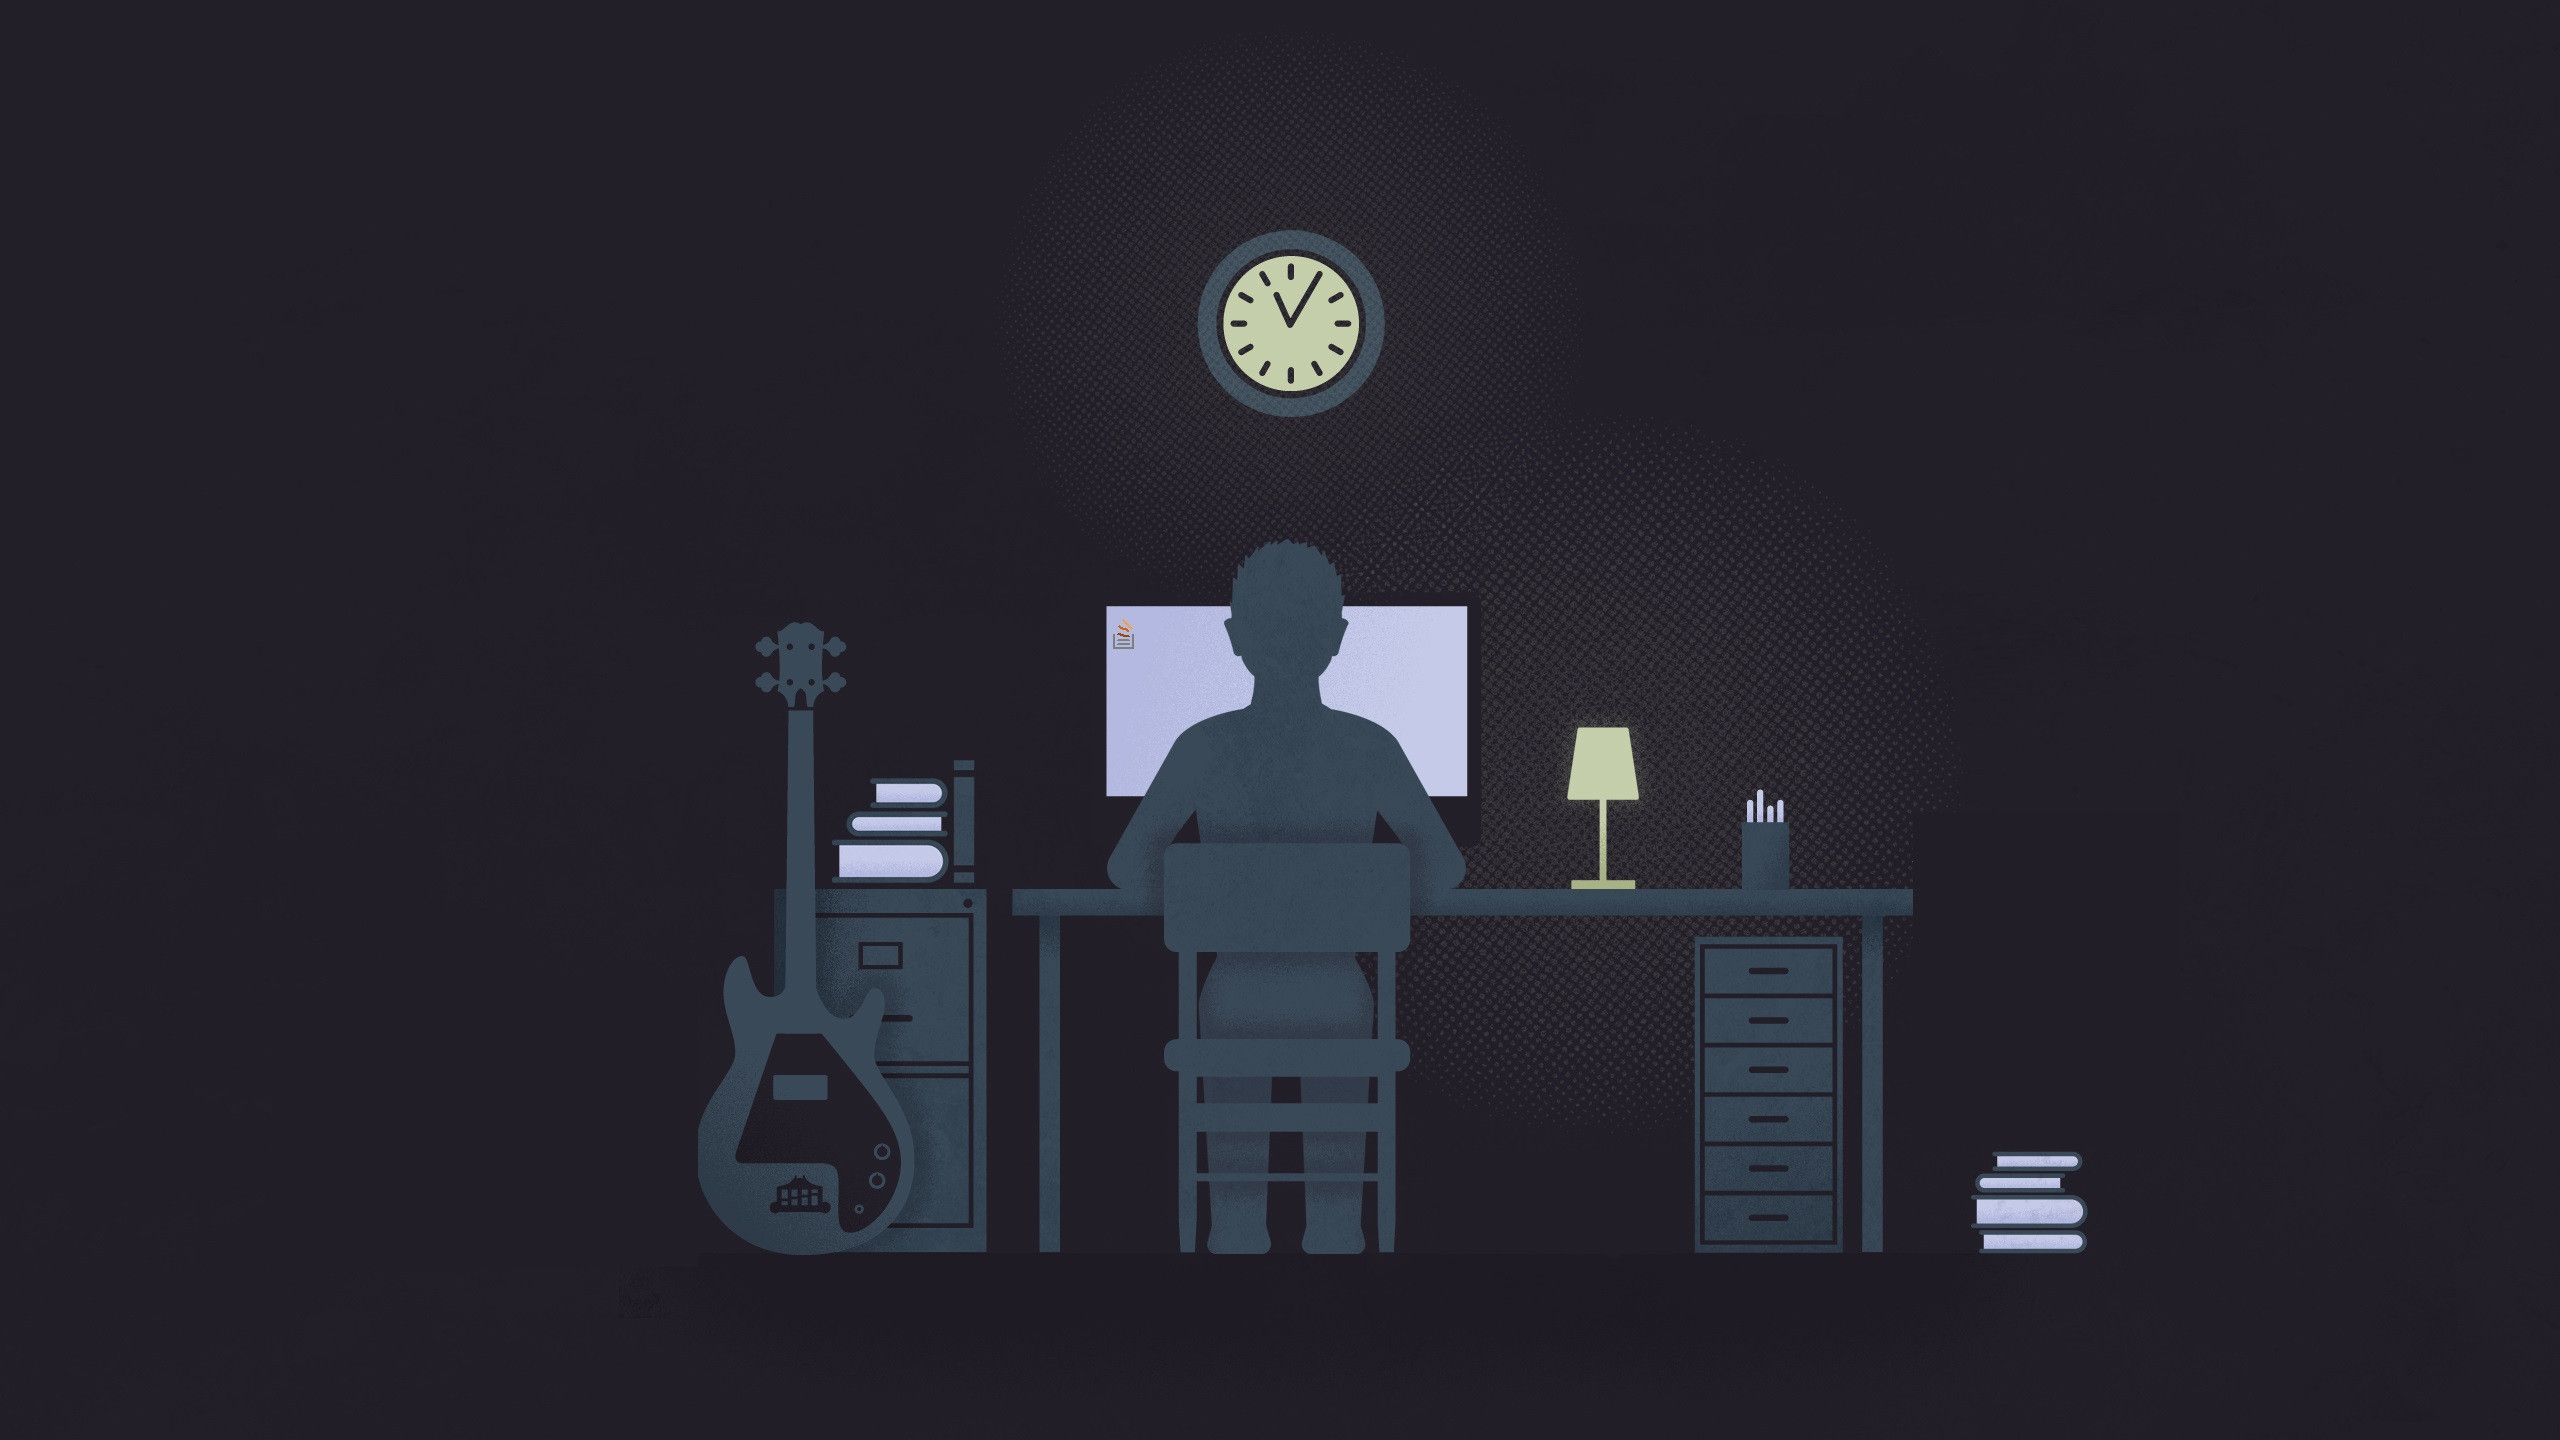
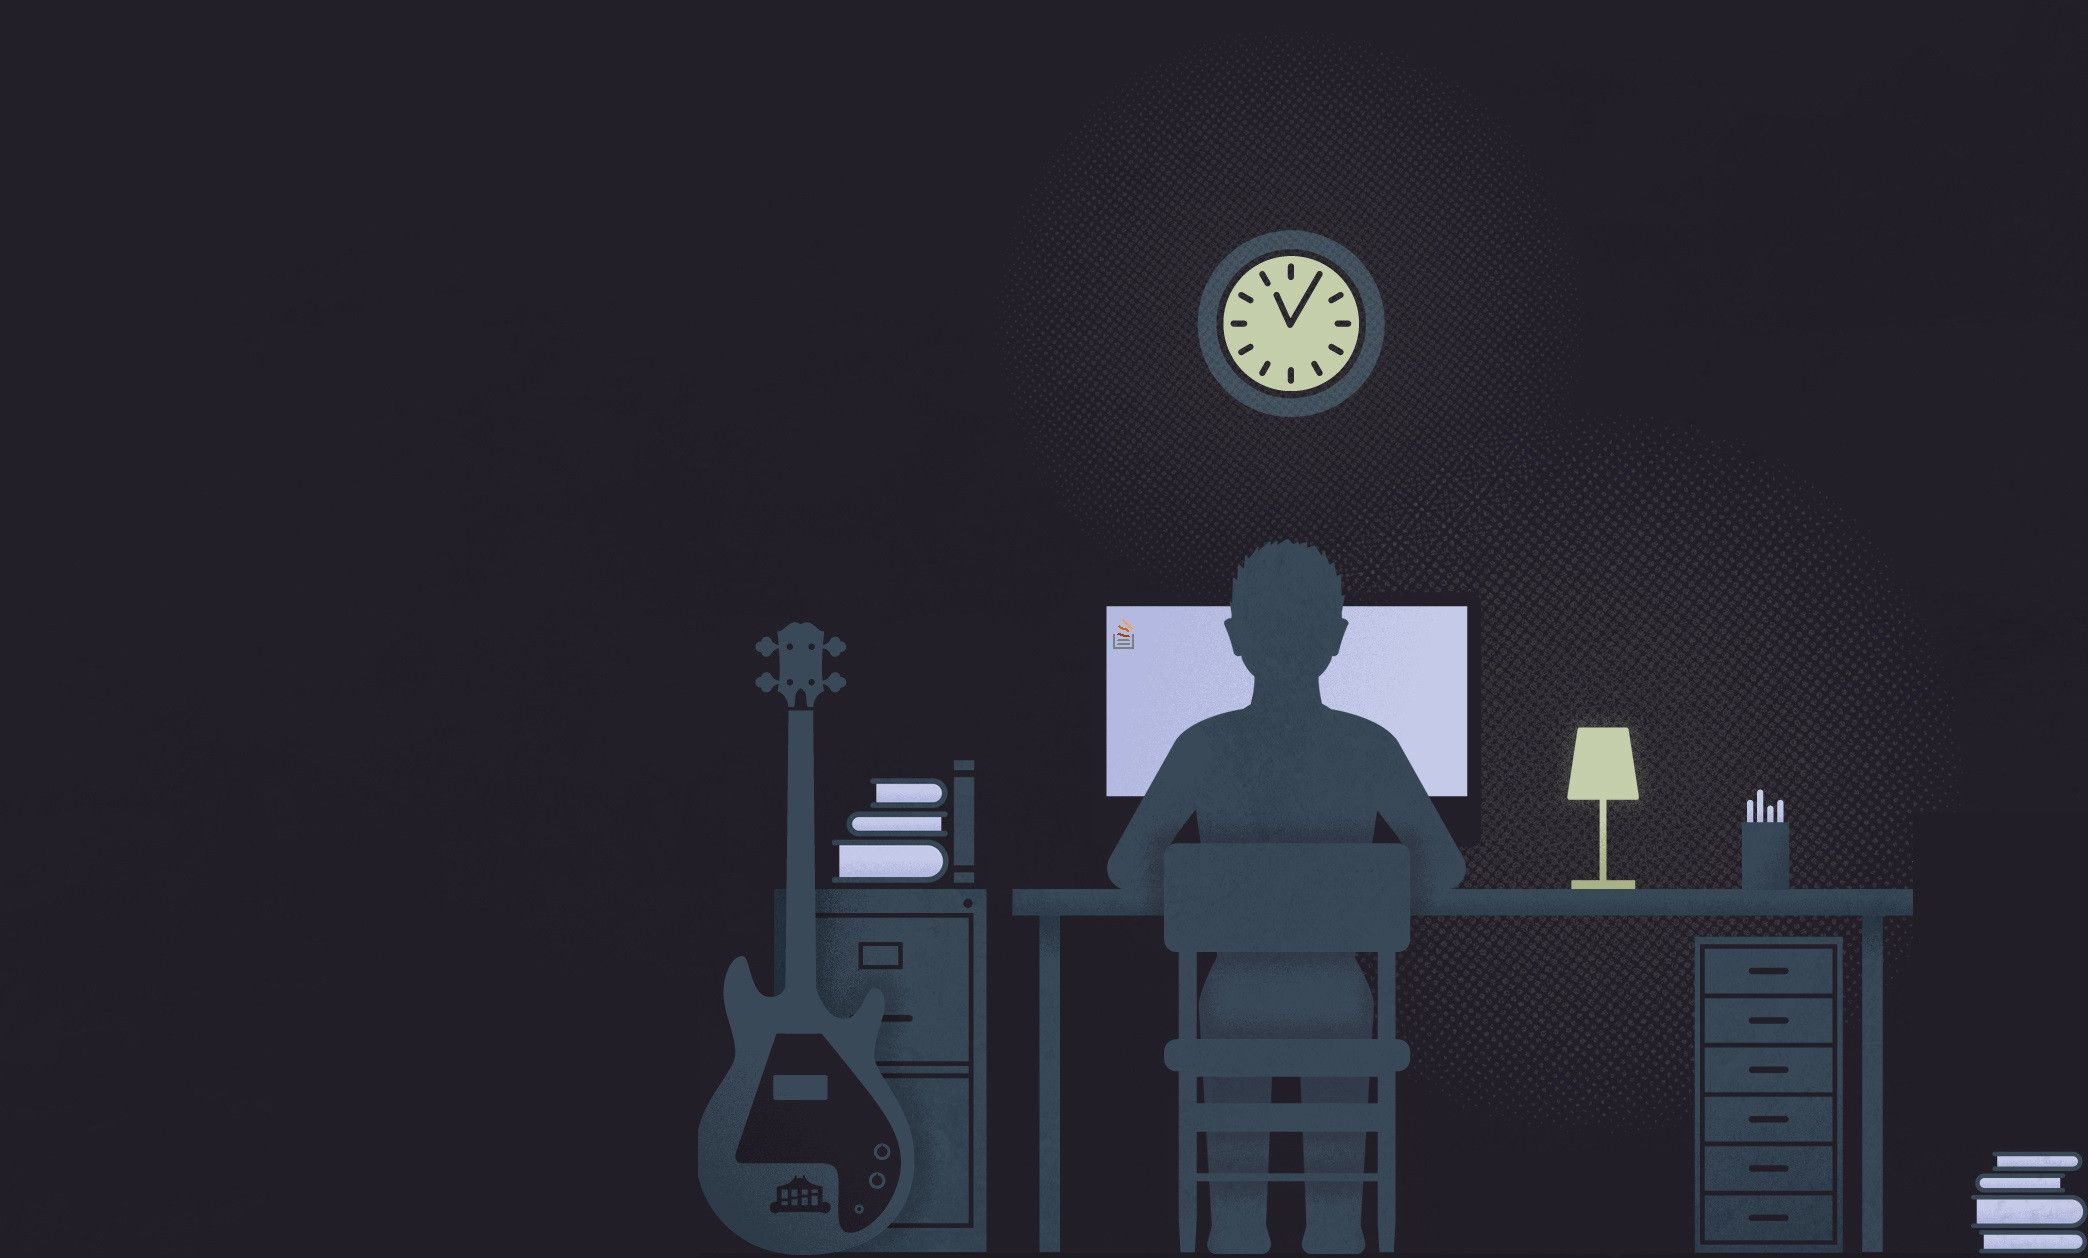
adjust color scheme

Changed region(s): [[0.249, 0.372, 0.9339, 1.0], [0.467, 0.155, 0.6849, 0.341], [0.9339, 0.899, 1.0, 1.0]]

diff --git a/src/components/about/about.jsx b/src/components/about/about.jsx
@@ -15,9 +15,12 @@ class About extends React.Component {
                     </p>
                 </div>
                 
-                <h2 className="about-desc mt-10p mb-5p default-cursor unselectable">
-                    I build <span>elegant</span> and <span>efficient</span> applications. I'm experienced in <span>front</span> and <span>back-end web development</span> with a <span>passion</span> for the type of work that I do.
-                </h2>
+                <div className='about-desc-container mt-10p mb-5p'>
+                    <strong className='about-question'>Who am I?</strong>
+                    <p className="about-desc default-cursor unselectable">
+                        I build <span>elegant</span> and <span>efficient</span> applications. I'm experienced in <span>front</span> and <span>back-end web development</span> with a <span>passion</span> for the type of work that I do.
+                    </p>
+                </div>
                 
                 <div className="d-flex w-auto">
                     <Link to="/projects" className="unselectable primary-btn center p-10 mb-5p ">

diff --git a/src/components/about/about.css b/src/components/about/about.css
@@ -57,11 +57,28 @@
     color: var(--clr-primary-light);
     z-index: 1;
   }
+  
+  .about-desc-container {
+    display: inline-flex;
+    align-items: center;
+  }
+  .about-question {
+    width: 45%;
+    padding: 0 25px 0 0;
+    text-align: center;
+    font-size: 3.5em;
+    font-weight: 300;
+    color: var(--clr-secondary);
+  }
   .about-desc {
+    width: 50%;
+    padding: 0 0 0 25px;
     animation: fade-in ease 1s;
     animation: rise-in ease 1s;
     font-size: 1.5em;
+    font-weight: 500;
     color: var(--clr-white);
+    border-left: 3px solid var(--clr-tertiary);
   }
   .about-desc span {
     color: var(--clr-secondary);

diff --git a/src/components/home/home.jsx b/src/components/home/home.jsx
@@ -7,7 +7,7 @@ class Home extends React.Component {
   render() {
     return (
         <div className="App">
-            <header className="App-header" style={{ background: `url(${background}) no-repeat center left fixed`, backgroundSize: "cover" }}>
+            <header className="App-header" style={{ background: `url(${background}) no-repeat left top fixed`, backgroundSize: "cover" }}>
                 <div className="home-wrapper">
                     <h1 className="home-name m-0 default-cursor unselectable">
                         Jacob Marquez

diff --git a/src/components/home/home.css b/src/components/home/home.css
@@ -20,7 +20,8 @@
   }
   .home-text-muted {
     font-size: .8em;
-    color: var(--clr-tertiary);
+    font-weight: 600;
+    color: var(--clr-tertiary-light);
   }
 
   @keyframes slide-in {
